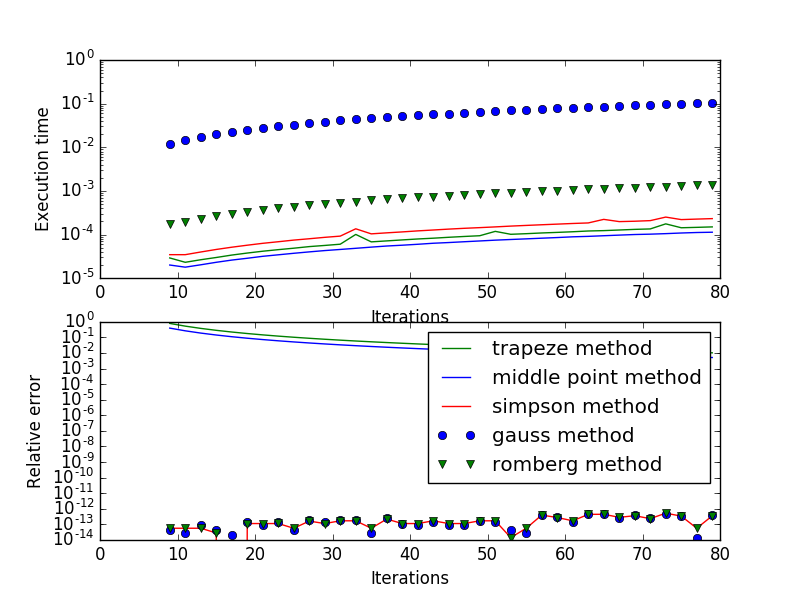
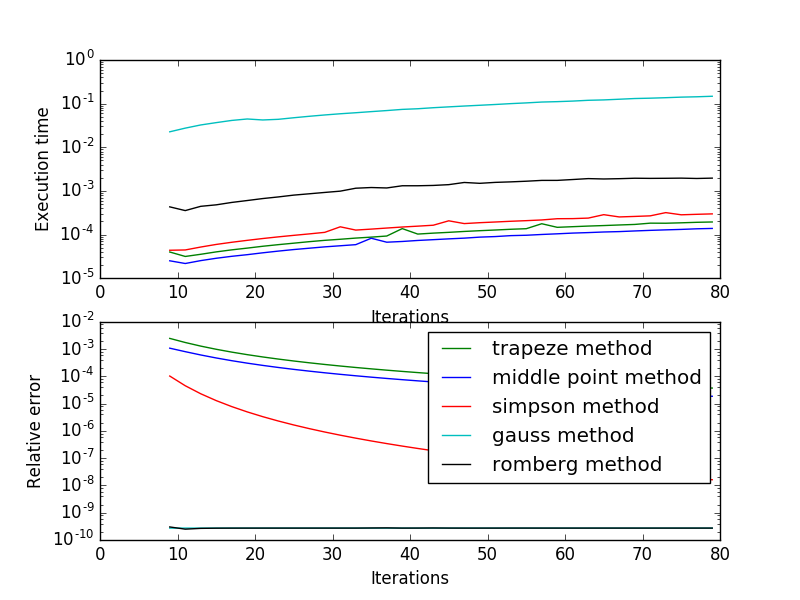
modif image et tests integration

diff --git a/integration_test.py b/integration_test.py
@@ -20,16 +20,16 @@ def test_methode():
     print("===> Method test <===")
     a = -1
     b = 1
-    print("f(x) = x**2+x+1 on ["+str(a)+", "+str(b)+"]")
-    trap = trapeze(phi3, a, b)
+    print("f(x) = x*sin(2x)+1 on ["+str(a)+", "+str(b)+"]")
+    trap = trapeze(f, a, b)
     print("Trapeze method : "+str(trap))
-    mid_p = middle_point(phi3, a, b)
+    mid_p = middle_point(f, a, b)
     print("Middle point method : "+str(mid_p))
-    sim = simpson(phi3, a, b)
+    sim = simpson(f, a, b)
     print("Simpson method : "+str(sim))
-    gaus = gauss(phi3, a, b)
+    gaus = gauss(f, a, b)
     print("Gauss method : "+str(gaus))
-    romb = romberg(phi3, a, b)
+    romb = romberg(f, a, b)
     print("Romberg method : "+str(romb))
     print()
 test_methode()
@@ -113,23 +113,23 @@ def test_length_curves():
     b = 10
     n = 100
     t1 = time()
-    trap = length_of_plane_curves(X3, a, b, n, trapeze)
+    trap = length_of_plane_curves(f, a, b, n, trapeze)
     t_trap = time() - t1
     print("Trapeze method : "+str(trap)+" in "+str(t_trap)+" seconds")
     t2 = time()
-    mid_p = length_of_plane_curves(X3, a, b, n, middle_point)
+    mid_p = length_of_plane_curves(f, a, b, n, middle_point)
     t_mid = time() - t2
     print("Middle point method : "+str(mid_p)+" in "+str(t_mid)+" seconds")
     t3 = time()
-    sim = length_of_plane_curves(X3, a, b, n, simpson)
+    sim = length_of_plane_curves(f, a, b, n, simpson)
     t_sim = time() - t3
     print("Simpson method : "+str(sim)+" in "+str(t_sim)+" seconds")
     t4 = time()
-    gaus = length_of_plane_curves(X3, a, b, n, gauss)
+    gaus = length_of_plane_curves(f, a, b, n, gauss)
     t_gaus = time() - t4
     print("Gauss method : "+str(gaus)+" in "+str(t_gaus)+" seconds")
     t5 = time()
-    romb = length_of_plane_curves(X3, a, b, n, romberg)
+    romb = length_of_plane_curves(f, a, b, n, romberg)
     t_romb = time() - t5
     print("Romberg method : "+str(romb)+" in "+str(t_romb)+" seconds")
     print()
@@ -154,11 +154,11 @@ def compare_integrate():
     global f
     fig = plt.figure()
 
-    f = X3
+    #f = f
     a = 0.
     b = 4.
     sub = range(9, 80, 2)
-    expect = 64
+    expect = 4.538339629
 
     ax1 = fig.add_subplot(211)
     ax2 = fig.add_subplot(212)
@@ -184,12 +184,12 @@ def compare_integrate():
     ax1.plot(sub, speed, c, label="simpson method")
     ax2.plot(sub, accuracy, c, label="simpson method")
     
-    c = "o"
+    c = "c"
     speed, accuracy = speed_and_accuracy(f, a, b, gauss, sub, expect)
     ax1.plot(sub, speed, c, label="gauss method")
     ax2.plot(sub, accuracy, c, label="gauss method")
     
-    c = "v"
+    c = "k"
     speed, accuracy = speed_and_accuracy(f, a, b, romberg, sub, expect)
     ax1.plot(sub, speed, c, label="romberg method")
     ax2.plot(sub, accuracy, c, label="romberg method")
